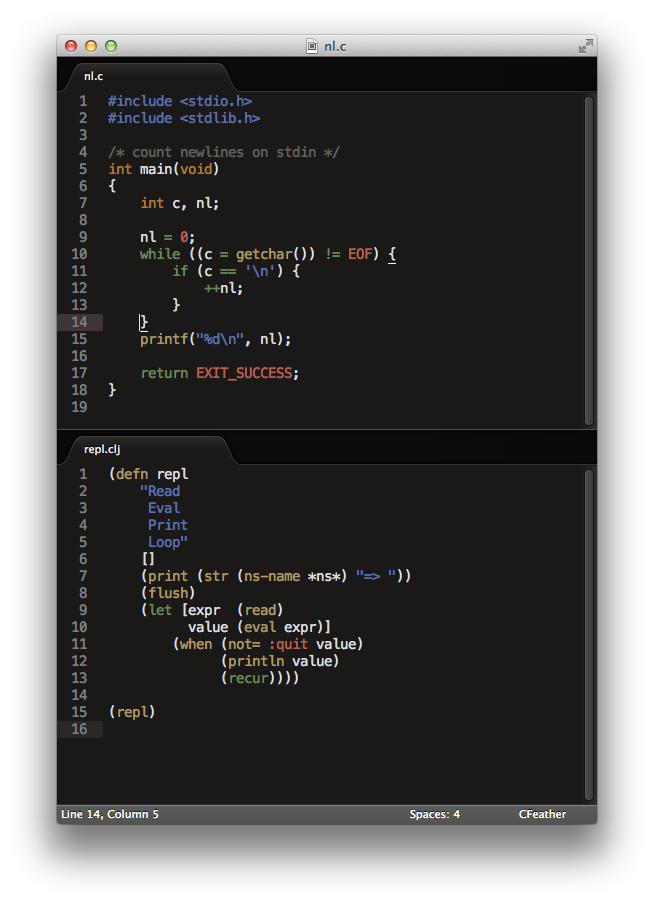
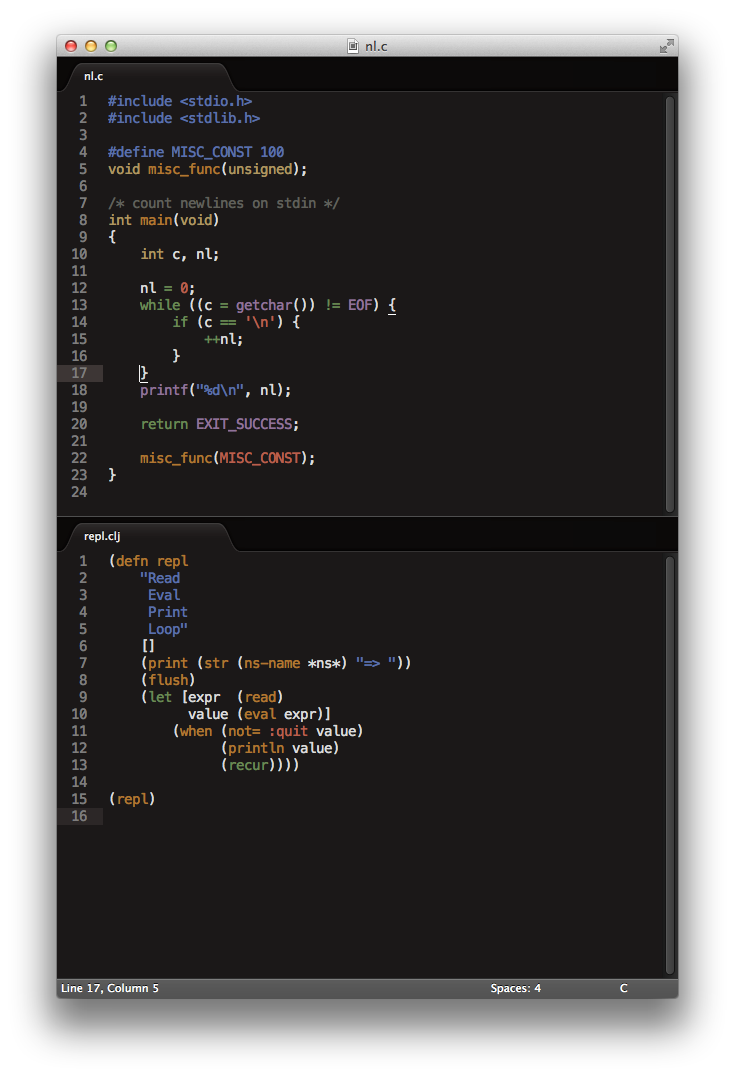
Swapped and updated several scope colours.

Changed region(s): [[0.0612, 0.031, 0.948, 0.9612], [0.6116, 0.6202, 0.6422, 0.6512]]

diff --git a/README.md b/README.md
@@ -2,8 +2,11 @@
 because I found most dark schemes out there (including Sublime's default) to
 look too "glowing neon".
 
-It has a simple definition covering the general text-editing elements as well
-as the [root groups][tmlang].
+It has a simple definition that colours:
+
+* The language-independent [root groups][tmlang].
+* Sublime's various highlights, including current lines, selections and find
+matches.
 
 ![Screenshot](https://github.com/frou/Sundried/raw/master/screenshot.png)
 
